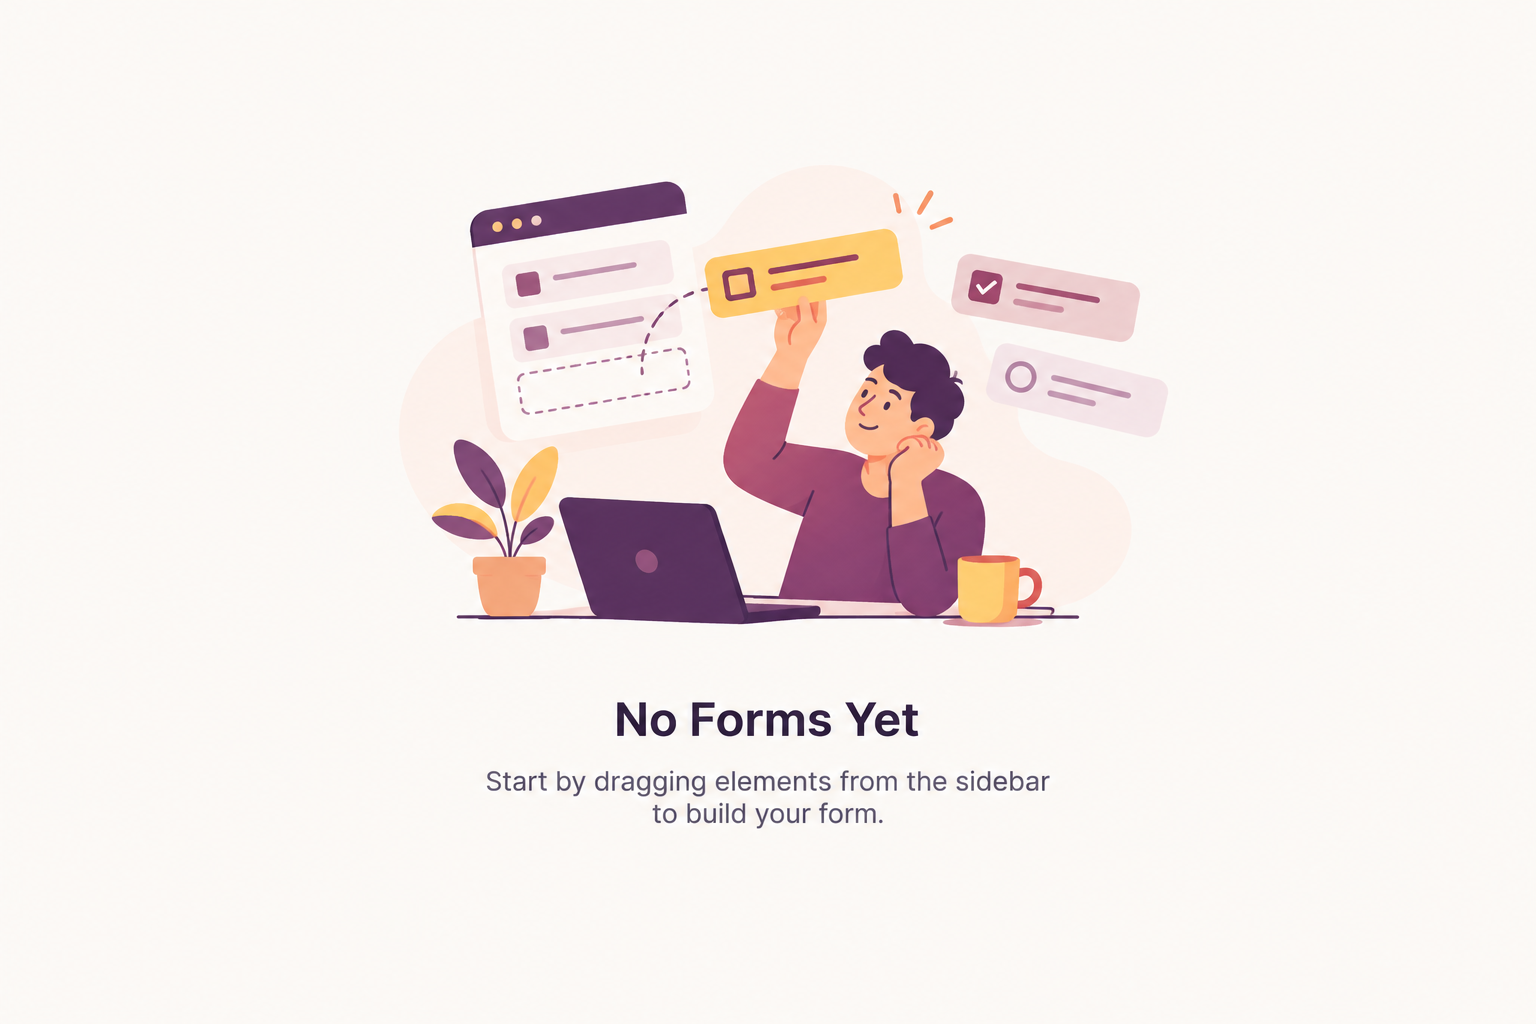
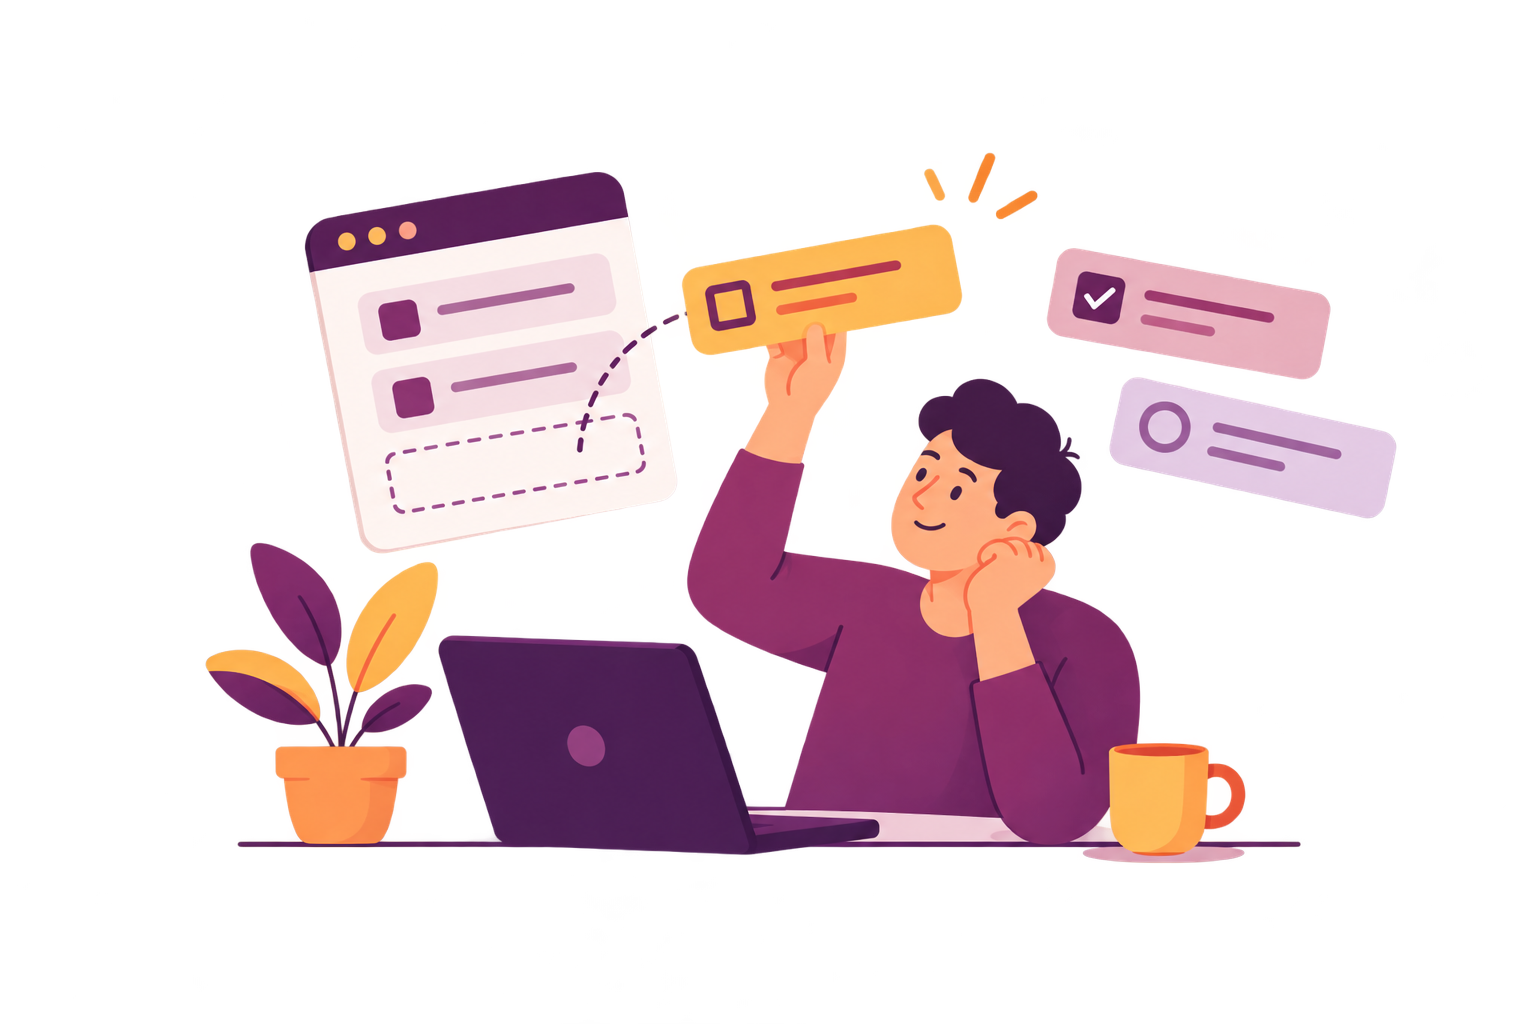
refactor(DropEmptyState): Redesign Drop empty state component, make it interactive to user drag and drop

Changed region(s): [[0.125, 0.1562, 0.9062, 0.8438]]

diff --git a/src/features/form-builder/components/Palette/Palette.tsx b/src/features/form-builder/components/Palette/Palette.tsx
@@ -6,8 +6,9 @@ import { visuallyHidden } from "@mui/utils";
 import { PaletteSearch } from "./Palettesearch";
 import { PaletteSection } from "./Palettesection";
 import { PaletteItem } from "./PaletteItem";
-import { PaletteEmptyState } from "./Paletteemptystate";
+import { PaletteEmptyState } from "./PaletteEmptyState";
 import { usePaletteGroups } from "../../hooks/usePaletteGroup";
+import { alpha } from "@mui/material";
 
 export const Palette = () => {
   const [query, setQuery] = useState("");
@@ -39,7 +40,38 @@ export const Palette = () => {
 
       <Divider />
 
-      <Box sx={{ flex: 1, minHeight: 0, overflowY: "auto", px: 2, py: 1 }}>
+      <Box
+        sx={(theme) => ({
+          flex: 1,
+          minHeight: 0,
+          overflowY: "auto",
+          px: 2,
+          py: 1,
+          scrollbarGutter: "stable",
+
+          /* Chrome, Edge, Safari */
+          "&::-webkit-scrollbar": { width: 10 },
+          "&::-webkit-scrollbar-track": { background: "transparent" },
+          "&::-webkit-scrollbar-thumb": {
+            backgroundColor: "transparent",
+            backgroundClip: "content-box",
+            border: "2px solid transparent",
+            borderRadius: 999,
+          },
+          "&:hover::-webkit-scrollbar-thumb": {
+            backgroundColor: alpha(theme.palette.primary.main, 0.25),
+          },
+          "&::-webkit-scrollbar-thumb:hover": {
+            backgroundColor: alpha(theme.palette.primary.main, 0.5),
+          },
+
+          /* Firefox (and any browser without ::-webkit-scrollbar) */
+          "@supports not selector(::-webkit-scrollbar)": {
+            scrollbarWidth: "thin",
+            scrollbarColor: `${alpha(theme.palette.primary.main, 0.35)} transparent`,
+          },
+        })}
+      >
         {groups.length === 0 ? (
           <PaletteEmptyState query={query} onClear={() => setQuery("")} />
         ) : (

diff --git a/src/features/form-builder/components/DropEmptyState.tsx b/src/features/form-builder/components/DropEmptyState.tsx
@@ -14,7 +14,7 @@ export const DropEmptyState = () => {
   return (
     <div
       ref={setNodeRef}
-      className={`relative col-span-full flex h-full min-h-0 w-full items-center justify-center overflow-hidden rounded-2xl border-2 border-dashed transition-colors duration-300 ${
+      className={`relative col-span-full m-1 flex min-h-0 items-center justify-center overflow-hidden rounded-2xl border-2 border-dashed transition-colors duration-300 ${
         isOver
           ? "border-plum bg-plum/5"
           : isDragging
@@ -33,7 +33,10 @@ export const DropEmptyState = () => {
         </div>
       )}
 
-      <div className="relative flex h-full max-h-112 min-h-0 flex-col items-center justify-center gap-4 p-6">
+      <div
+        className="relative flex h-full max-h-112 min-h-0 flex-col items-center justify-center gap-4 select-none"
+        draggable={false}
+      >
         <div
           className={`min-h-0 flex-1 transition-[scale,translate,opacity,filter] duration-300 ease-out ${
             isOver
@@ -52,7 +55,7 @@ export const DropEmptyState = () => {
 
         <p
           aria-live="polite"
-          className={`shrink-0 text-sm font-medium transition-colors duration-300 ${
+          className={`shrink-0 text-lg font-semibold transition-colors duration-300 ${
             isOver ? "text-plum" : "text-ink-muted"
           }`}
         >

diff --git a/src/features/form-builder/components/Palette/Paletteemptystate.tsx b/src/features/form-builder/components/Palette/Paletteemptystate.tsx
@@ -13,12 +13,12 @@ export const PaletteEmptyState = ({
 }: PaletteEmptyStateProps) => (
   <Stack spacing={1} sx={{ py: 6, textAlign: "center", alignItems: "center" }}>
     <Typography variant="body2" sx={{ fontWeight: 500 }}>
-      No fields match “{query.trim()}”
+      No fields match <span className="wrap-anywhere">“{query.trim()}”</span>
     </Typography>
     <Typography variant="body2" color="text.secondary">
       Try a broader word, like “text” or “date”.
     </Typography>
-    <Button size="small" onClick={onClear}>
+    <Button size="small" variant="contained" onClick={onClear}>
       Clear search
     </Button>
   </Stack>

diff --git a/src/features/form-builder/components/Palette/Paletteitempreview.tsx b/src/features/form-builder/components/Palette/Paletteitempreview.tsx
@@ -1,6 +1,6 @@
 import { getCatalogField } from "@/features/form-schema";
-import { PaletteItemView } from "./Paletteitemview";
-import { toPaletteEntry } from "./PaletteConfig ";
+import { PaletteItemView } from "./PaletteItemView";
+import { toPaletteEntry } from "./PaletteConfig";
 
 type PaletteItemPreviewProps = {
   id: string;
@@ -10,6 +10,8 @@ type PaletteItemPreviewProps = {
 export const PaletteItemPreview = ({ id }: PaletteItemPreviewProps) => {
   const field = getCatalogField(id);
   if (!field) return null;
+
+  console.log(field);
 
   return <PaletteItemView entry={toPaletteEntry(field)} overlay />;
 };

diff --git a/src/features/form-builder/FormBuilderPage.tsx b/src/features/form-builder/FormBuilderPage.tsx
@@ -6,7 +6,7 @@ import { useFormBuilderDnd } from "./hooks/useFormBuilderDnd";
 import { Palette, PaletteItemPreview } from "./components/Palette";
 import { Canvas } from "./components/Canvas";
 import { PreviewPanel } from "../preview/PreviewPanel";
-import { DropEmptyState } from "./components/Palette/DropEmptyState";
+import { DropEmptyState } from "./components/DropEmptyState";
 
 export const FormBuilderPage = () => {
   const { fields, setFields, activeId, handleDragStart, handleDragEnd } =

diff --git a/src/features/form-builder/components/Palette/PaletteItem.tsx b/src/features/form-builder/components/Palette/PaletteItem.tsx
@@ -1,8 +1,8 @@
 import { memo } from "react";
 import { useDraggable } from "@dnd-kit/core";
 import Tooltip from "@mui/material/Tooltip";
-import { PaletteItemView } from "./Paletteitemview";
-import type { PaletteEntry } from "./PaletteConfig ";
+import { PaletteItemView } from "./PaletteItemView";
+import type { PaletteEntry } from "./PaletteConfig";
 
 type PaletteItemProps = {
   entry: PaletteEntry;

diff --git a/src/features/form-builder/components/Palette/Paletteitemview.tsx b/src/features/form-builder/components/Palette/Paletteitemview.tsx
@@ -1,7 +1,7 @@
 import { forwardRef, type HTMLAttributes } from "react";
 import { alpha, styled } from "@mui/material/styles";
 import Typography from "@mui/material/Typography";
-import type { PaletteEntry } from "./PaletteConfig ";
+import type { PaletteEntry } from "./PaletteConfig";
 
 const Tile = styled("div", {
   shouldForwardProp: (prop) => prop !== "dragging" && prop !== "overlay",

diff --git a/src/features/form-builder/hooks/usePaletteGroup.ts b/src/features/form-builder/hooks/usePaletteGroup.ts
@@ -5,7 +5,7 @@ import {
   PALETTE_CATEGORIES,
   toPaletteEntry,
   type PaletteEntry,
-} from "../components/Palette/PaletteConfig ";
+} from "../components/Palette/PaletteConfig";
 
 const ENTRIES: PaletteEntry[] = FIELD_CATALOG.map(toPaletteEntry);
 

diff --git a/src/index.css b/src/index.css
@@ -1,7 +1,6 @@
 @import "tailwindcss";
 
 /* ---------- font ---------- */
-/* Path is relative to THIS file: src/index.css -> src/assets/fonts/ */
 @font-face {
   font-family: "Inter";
   src: url("./assets/fonts/InterVariable.woff2") format("woff2");

diff --git a/src/features/form-builder/components/Palette/index.ts b/src/features/form-builder/components/Palette/index.ts
@@ -1,2 +1,2 @@
 export { Palette } from "./Palette";
-export { PaletteItemPreview } from "./Paletteitempreview";
+export { PaletteItemPreview } from "./PaletteItemPreview";
